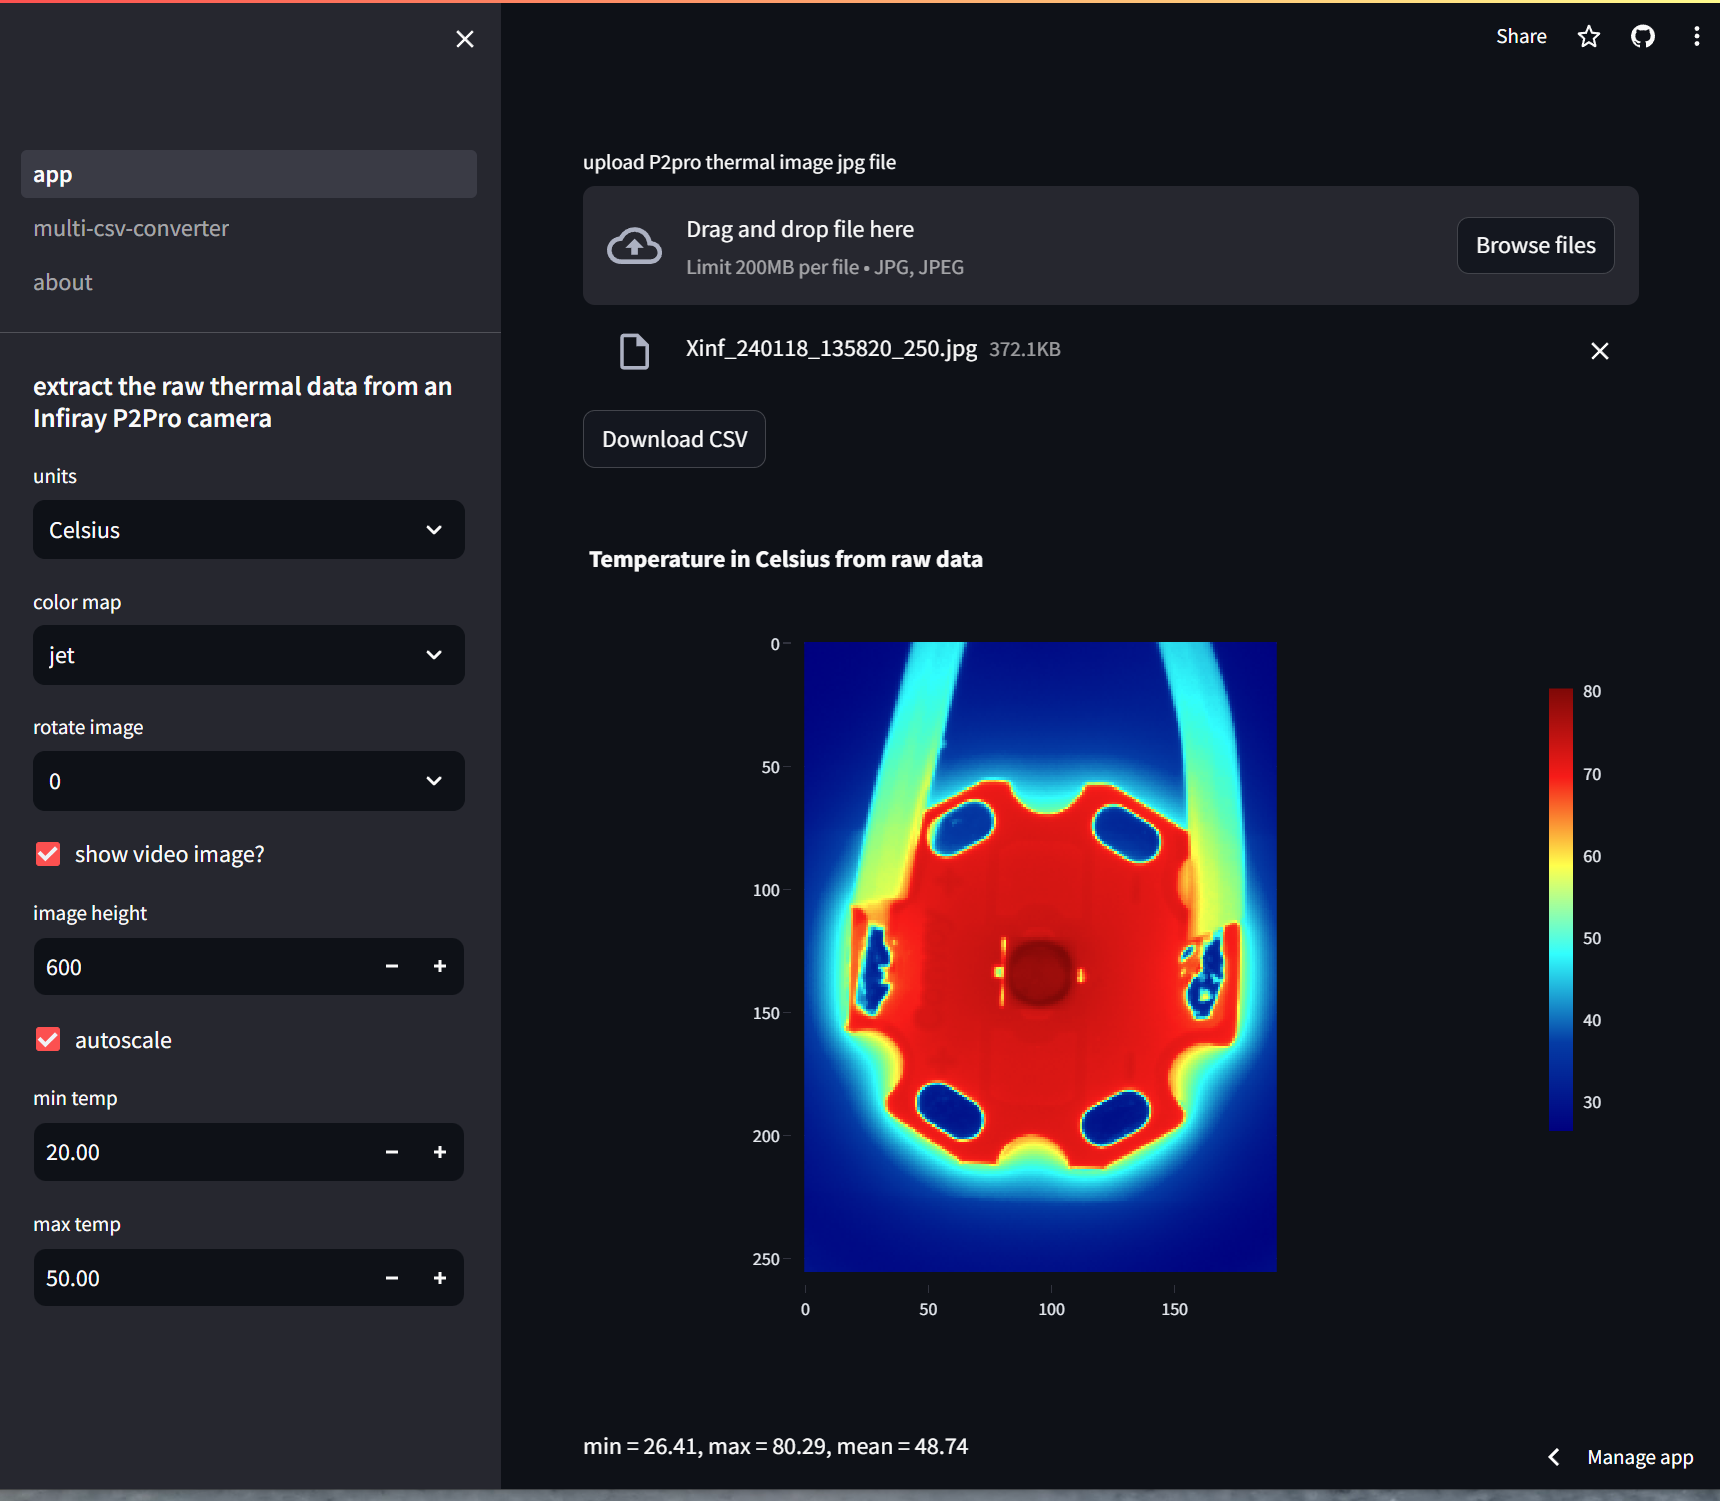
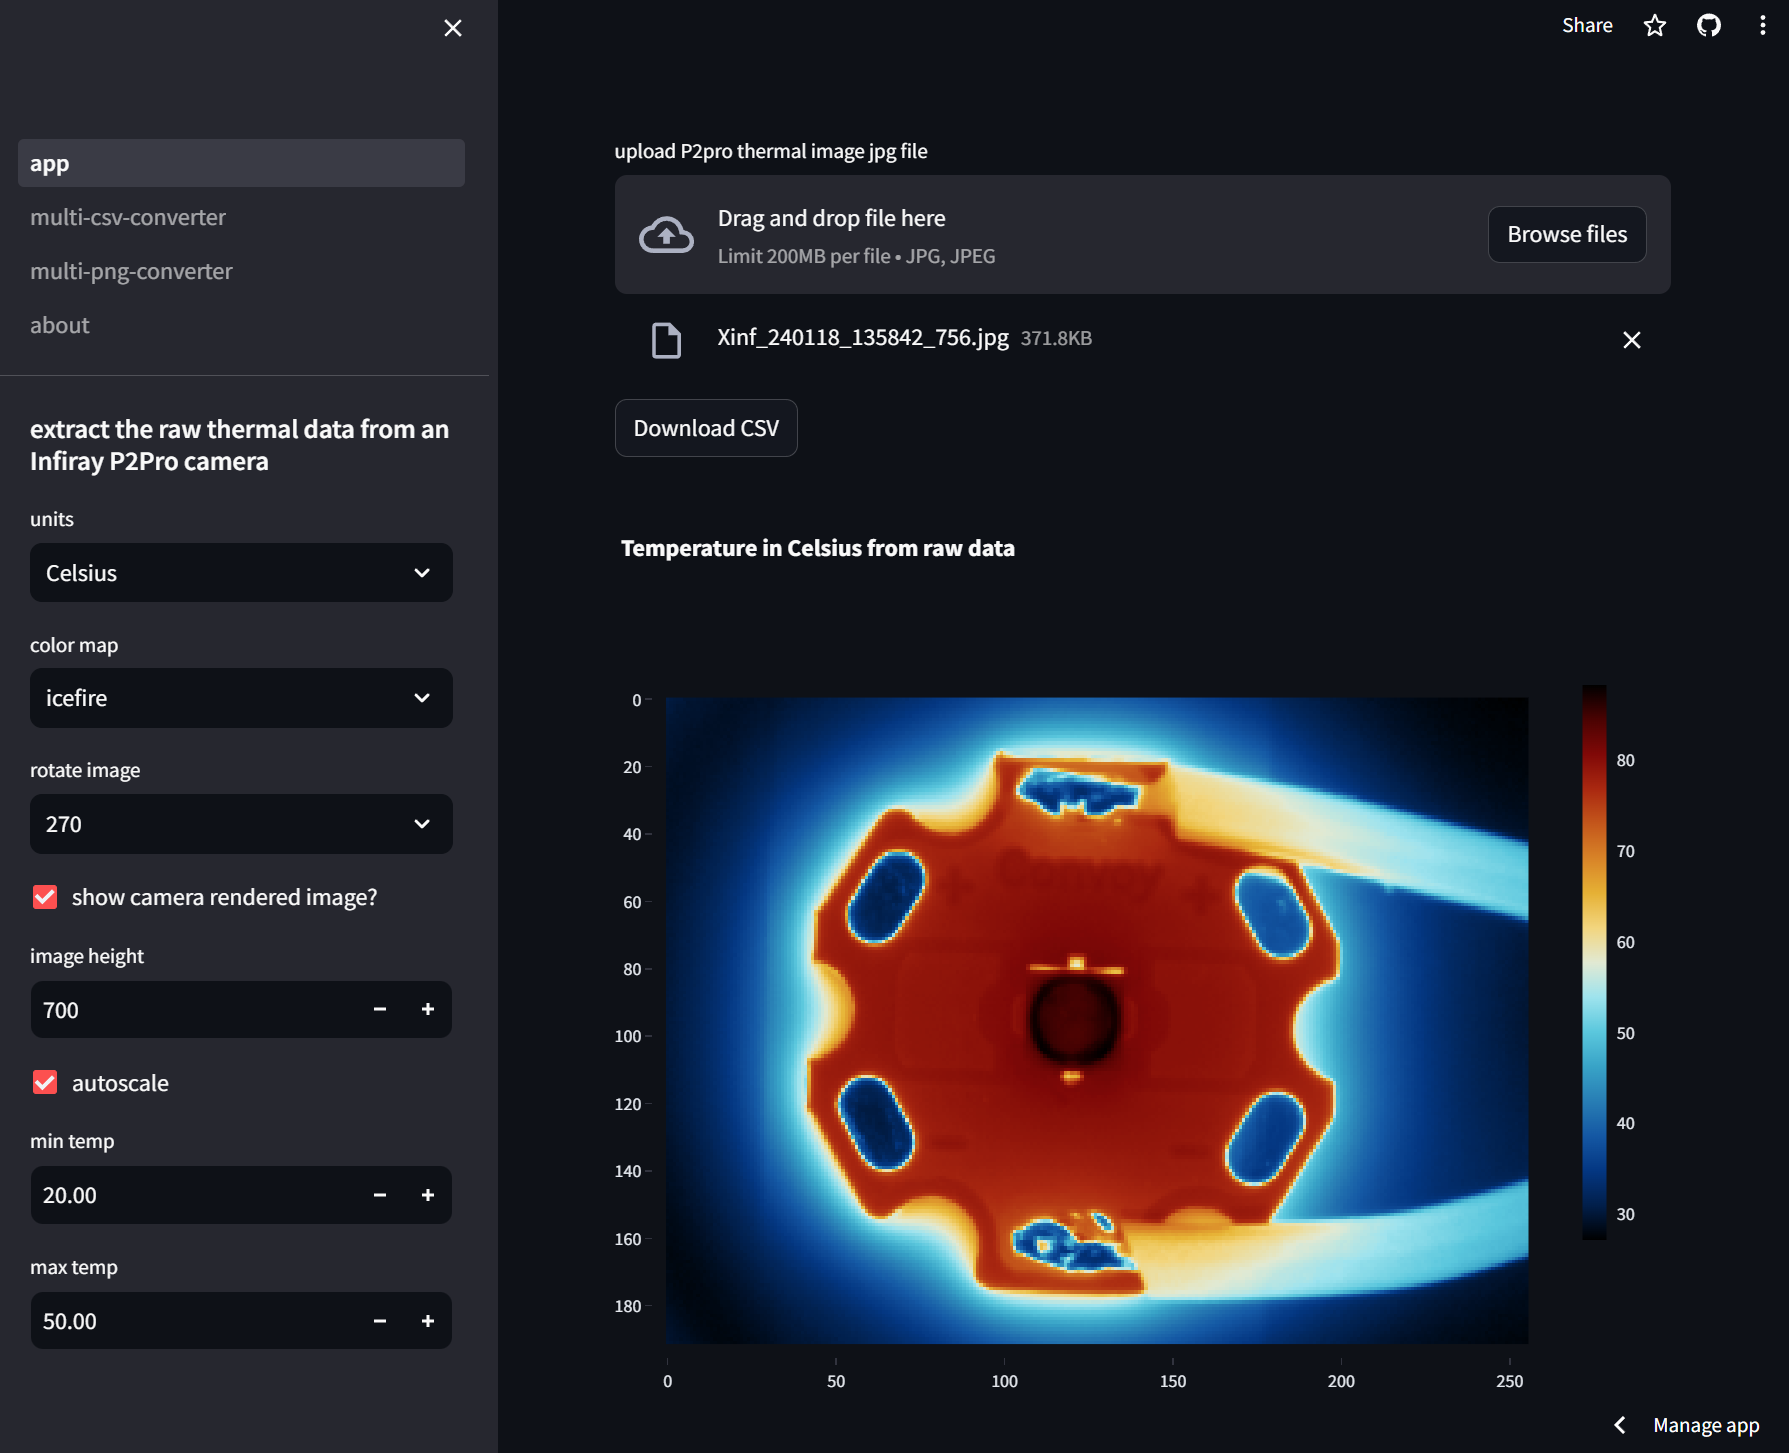
cosmetics

diff --git a/pages/02-multi-png-converter.py b/pages/02-multi-png-converter.py
@@ -44,7 +44,7 @@ if up is not None:
                         im = np.rot90(im,2)  
                     if session.rotation == 270 :
                         im = np.rot90(im,3)   
-                    png.seek(0)
+                    png.seek(0)                    
                     if session.autoscale :
                         plt.imsave(png,im,format='png', cmap=cmap)                         
                     else :
@@ -55,6 +55,7 @@ if up is not None:
                     else :
                         fname = f.name.replace('.jpg','_C.png')                        
                     archive.writestr(fname,png.read())    
+                    png.flush()
                 except Exception as e:
                     print(e)
                     errlist.append(f.name)

diff --git a/app.py b/app.py
@@ -10,7 +10,7 @@ session = st.session_state
 if 'units' not in session : # init
     session.upload = None
     session.units = 'Celsius'
-    session.colorscale = 'jet'
+    session.colorscale = 'icefire'
     session.rotation = 0
     session.autoscale = True
     session.tmax = 50

diff --git a/README.md b/README.md
@@ -15,4 +15,4 @@ You can open the downloaded csv image file in [ImageJ](https://imagej.net/softwa
 [live version of the app](https://p2proviewer.streamlit.app/)
 
 
-![app](media/Screenshot.png)
+![app](media/screenshot.png)
